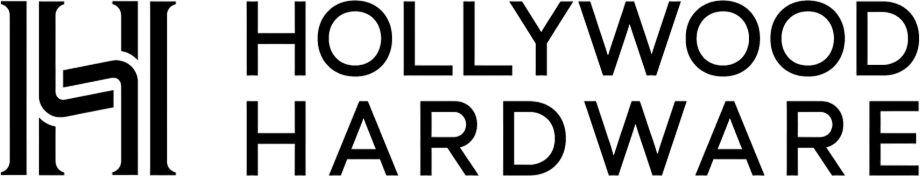
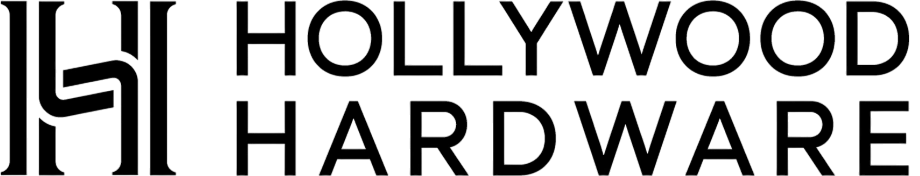
Update

diff --git a/info.html b/info.html
@@ -28,7 +28,7 @@
 		<div id="header">
 			<div id="logo">
 				<a href="index.html">
-				<img src="c.webp" style="opacity: 75%"/>
+				<img src="cc.webp" style="opacity: 75%"/>
 				</a>
 			</div>
 			<div id="header-nav">
@@ -58,7 +58,7 @@
 		</div>
 
 		<div style="padding-bottom: 30px; padding-top: 20px;">
-			Visit our showroom and explore collections from the world's finest plumbing and hardware manufacturers. Our experienced sales staff will help guide you to the right selections for your project. Our technical support team will provide expert service from the design phase, throughout construction, and beyond.
+			Visit our showroom and explore collections from the world's finest plumbing and hardware manufacturers. Our experienced sales staff will help guide you to the right selections for your project. Our technical support team will provide expert service from the design phase, through construction, and beyond.
 		</div>
 		<div class="section">
 			<div class="section-heading">

diff --git a/index.html b/index.html
@@ -133,7 +133,7 @@
 	<header>
 		<div id="header">
 			<div id="logo">
-				<img src="c.webp" style="opacity: 75%"/>
+				<img src="cc.webp" style="opacity: 75%"/>
 			</div>
 			<div id="header-nav">
 				<div class="navitem"><a href="info.html">Info</a></div>

diff --git a/collections.html b/collections.html
@@ -145,7 +145,7 @@
 		<div id="header">
 			<div id="logo">
 				<a href="index.html">
-				<img src="c.webp" style="opacity: 75%"/>
+				<img src="cc.webp" style="opacity: 75%"/>
 				</a>
 			</div>
 			<div id="header-nav">

diff --git a/story.html b/story.html
@@ -26,7 +26,7 @@
 		<div id="header">
 			<div id="logo">
 				<a href="index.html">
-				<img src="c.webp" style="opacity: 75%"/>
+				<img src="cc.webp" style="opacity: 75%"/>
 				</a>
 			</div>
 			<div id="header-nav">
